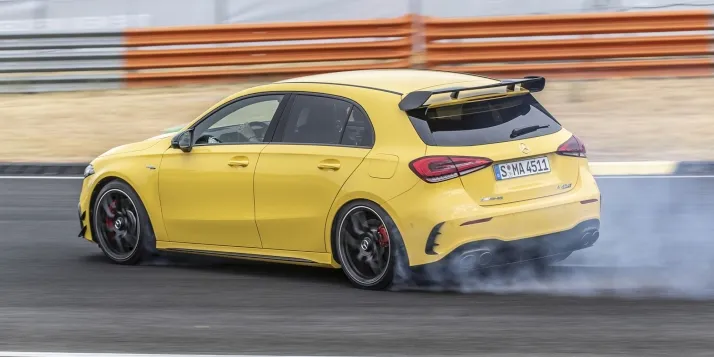
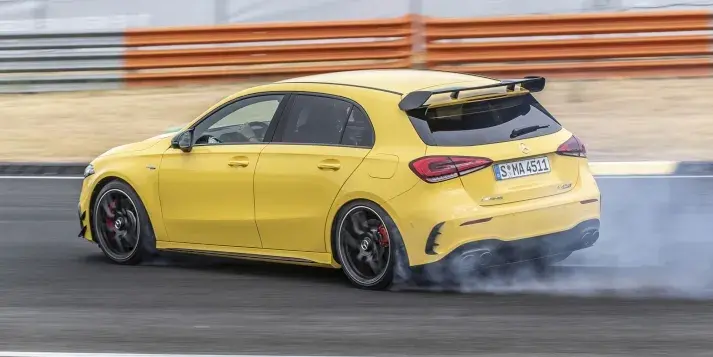
246

diff --git a/pic/ja_mb_img_a.html b/pic/ja_mb_img_a.html
@@ -507,7 +507,7 @@
 					<section>
 						<h4 class="displayNone">A45</h4>
 						<a href="full/a/w177_amg_f.jpg"><img loading="lazy" src="style/a/w177_amg_f.webp" alt="メルセデス,W177,Aクラス,AMG,フロント" width="492" height="357"></a>
-						<a href="full/a/w177_amg_r.jpg"><img loading="lazy" src="style/a/w177_amg_r.webp" alt="メルセデス,W177,Aクラス,AMG,リヤ" width="714" height="357"></a><br>
+						<a href="full/a/w177_amg_r.jpg"><img loading="lazy" src="style/a/w177_amg_r.webp" alt="メルセデス,W177,Aクラス,AMG,リヤ" width="713" height="357"></a><br>
 						<a href="full/a/w177_amg_d.jpg"><img loading="lazy" src="style/a/w177_amg_d.webp" alt="メルセデス,W177,Aクラス,AMG,ダッシュボード" width="552" height="368"></a>
 						<a href="full/a/w177_amg_i.jpg"><img loading="lazy" src="style/a/w177_amg_i.webp" alt="メルセデス,w177,Aクラス,AMG,フロントシート" width="654" height="368"></a><br>
 						<figure class="f">

diff --git a/pic/mb_img_a.html b/pic/mb_img_a.html
@@ -507,7 +507,7 @@
 					<section>
 						<h4 class="displayNone">A45</h4>
 						<a href="full/a/w177_amg_f.jpg"><img loading="lazy" src="style/a/w177_amg_f.webp" alt="Mercedes,W177,A-klasse,AMG,Frontansicht" width="492" height="357"></a>
-						<a href="full/a/w177_amg_r.jpg"><img loading="lazy" src="style/a/w177_amg_r.webp" alt="Mercedes,W177,A-klasse,AMG,Rückansicht" width="714" height="357"></a><br>
+						<a href="full/a/w177_amg_r.jpg"><img loading="lazy" src="style/a/w177_amg_r.webp" alt="Mercedes,W177,A-klasse,AMG,Rückansicht" width="713" height="357"></a><br>
 						<a href="full/a/w177_amg_d.jpg"><img loading="lazy" src="style/a/w177_amg_d.webp" alt="Mercedes,W177,A-klasse,AMG,Instrumententafel" width="552" height="368"></a>
 						<a href="full/a/w177_amg_i.jpg"><img loading="lazy" src="style/a/w177_amg_i.webp" alt="Mercedes,w177,A-klasse,AMG,Frontansichtseat" width="654" height="368"></a>
 						<figure class="f">

diff --git a/pic/en_mb_img_a.html b/pic/en_mb_img_a.html
@@ -507,7 +507,7 @@
 					<section>
 						<h4 class="displayNone">A45</h4>
 						<a href="full/a/w177_amg_f.jpg"><img loading="lazy" src="style/a/w177_amg_f.webp" alt="Mercedes,W177,A-class,AMG,Front view" width="492" height="357"></a>
-						<a href="full/a/w177_amg_r.jpg"><img loading="lazy" src="style/a/w177_amg_r.webp" alt="Mercedes,W177,A-class,AMG,Rear view" width="714" height="357"></a><br>
+						<a href="full/a/w177_amg_r.jpg"><img loading="lazy" src="style/a/w177_amg_r.webp" alt="Mercedes,W177,A-class,AMG,Rear view" width="713" height="357"></a><br>
 						<a href="full/a/w177_amg_d.jpg"><img loading="lazy" src="style/a/w177_amg_d.webp" alt="Mercedes,W177,A-class,AMG,Dashboard" width="552" height="368"></a>
 						<a href="full/a/w177_amg_i.jpg"><img loading="lazy" src="style/a/w177_amg_i.webp" alt="Mercedes,w177,A-class,AMG,frontseat" width="654" height="368"></a><br>
 						<figure class="f">
